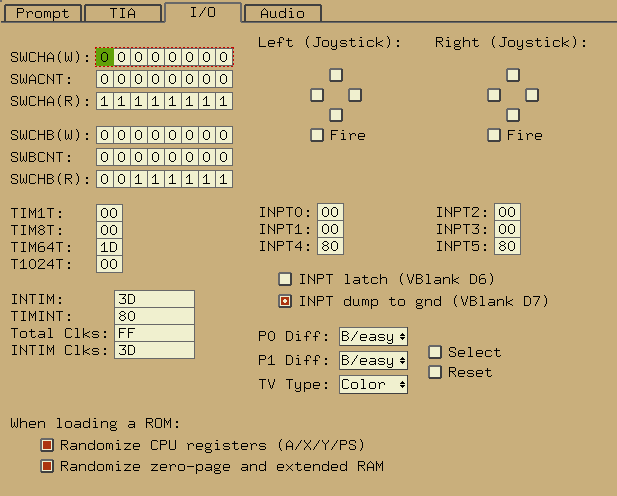
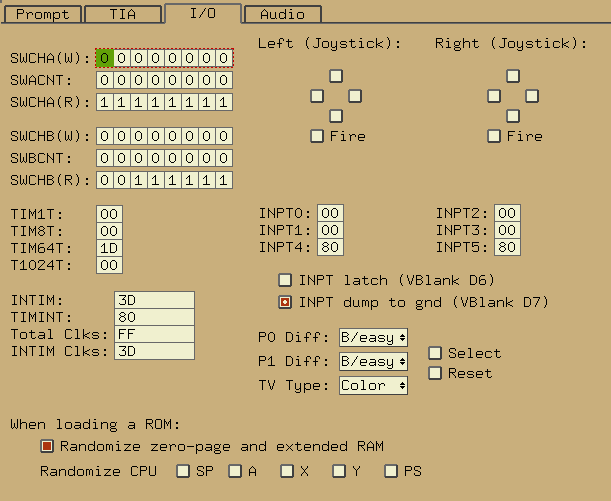
Updated webpage for 4.2 release.

diff --git a/docs/debugger.html b/docs/debugger.html
@@ -771,7 +771,7 @@ system would alternate between drawing frames (and hence produce
 flicker).</p>
 
 <p>You can use the "Scan+1" button, the prompt "scan" command, or the
-Alt-L key-combo to watch the TIA draw the frame one scanline at a time.</p>
+Control-L key to watch the TIA draw the frame one scanline at a time.</p>
 
 <p>You can also right-click anywhere in this window to show a context menu,
 as illustrated:</p>
@@ -1163,18 +1163,18 @@ the RAM in the DPC scheme is not viewable by the 6507, so its addresses start fr
 <h2>Global Buttons</h2>
 
 <p>There are also buttons on the right that always show up no matter which
-tab you're looking at. These are always active. They are: Step, Trace,
-Scan+1, Frame+1 and Exit.  The larger button to the left (labeled '&lt;')
-performs the rewind operation, which will undo the previous Step/Trace/Scan/Frame
-advance.  The rewind buffer is currently 100 levels deep.</p>
+tab you're looking at. These are always active.  The larger button to the left
+(labeled '&lt;') performs the rewind operation, which will undo the previous
+Step/Trace/Scan/Frame advance.  The rewind buffer is currently 100 levels deep.
+The others are Step, Trace, Scan+1, Frame+1 and Exit.</p>
 <p><img src="graphics/debugger_globalbuttons.png"></p>
 
 <p>When you use these buttons, the prompt doesn't change. This means the
 status lines with the registers and disassembly will be "stale". You
 can update them just by re-running the relevant commands in the prompt.</p>
 
-<p>You can also use the Step, Trace, Scan+1, Frame+1 and Rewind buttons from
-anywhere in the GUI via the keyboard, with Alt-S, Alt-T, Alt-L, Alt-F and Alt-R.</p>
+<p>You can also use the Step, Trace, Scan+1, Frame+1 and Rewind buttons from anywhere
+in the GUI via the keyboard, with Control-S, Control-T, Control-L, Control-F and Control-R.</p>
 
 
 <!-- /////////////////////////////////////////////////////////////////////////  -->

diff --git a/docs/index.html b/docs/index.html
@@ -10,7 +10,7 @@
   <br><br>
   <center><h2><b>A multi-platform Atari 2600 VCS emulator</b></h2></center>
 
-  <center><h4><b>Release 4.1.1</b></h4></center>
+  <center><h4><b>Release 4.2</b></h4></center>
   <br><br>
 
   <center><h2><b>User's Guide</b></h2></center>
@@ -54,7 +54,7 @@
 
   <br><br><br>
 
-  <center><b>February 1999 - September 2014</b></center>
+  <center><b>February 1999 - October 2014</b></center>
     <center><b>The Stella Team</b></center>
   <center><b><a href="http://stella.sourceforge.net">Stella Homepage</a></b></center>
 
@@ -2246,8 +2246,8 @@
     </tr>
 
     <tr>
-      <td><pre>-cpurandom &lt;1|0&gt;</pre></td>
-      <td>On reset, randomize the content CPU registers.</td>
+      <td><pre>-cpurandom &lt;S,A,X,Y,P&gt;</pre></td>
+      <td>On reset, randomize the content of the specified CPU registers.</td>
     </tr>
 
     <tr>
@@ -2767,10 +2767,9 @@
   <a href="http://2600-daptor.com">2600-adaptor</a> devices.</p>
 
   <p>Stella can use up to <b>two</b> adaptors; any extra ones are ignored.
-  Stelladaptor devices will be automatically detected and configured.  Stelladaptor
-  devices must be plugged in before starting the application; actual controllers
-  can be plugged/unplugged while the emulator is running, although you will need
-  to restart the game currently being emulated.</p>
+  Stelladaptor devices will be automatically detected and configured. The
+  actual controllers can be plugged/unplugged while the emulator is running,
+  although you will need to restart the game currently being emulated.</p>
 
   <p>The detection and configuration is as follows:
 

diff --git a/downloads.php b/downloads.php
@@ -15,52 +15,52 @@
 <table BORDER=0 CELLPADDING=6 WIDTH="100%">
 
 	<tr>
-		<td><b>Latest&nbsp;Release (v/ 4.1.1)</b></td>
+		<td><b>Latest&nbsp;Release (v/ 4.2)</b></td>
 		<td>&nbsp;</td>
 	</tr>
 
 	<tr>
-		<td BGCOLOR="#CCCCCC"><a href="http://prdownloads.sourceforge.net/stella/Stella-4.1.1-win32.exe?download">Stella-4.1.1-win32.exe</a></td>
+		<td BGCOLOR="#CCCCCC"><a href="http://prdownloads.sourceforge.net/stella/Stella-4.2-win32.exe?download">Stella-4.2-win32.exe</a></td>
 		<td BGCOLOR="#FFCC99">Binary installer (exe) for 32-bit Windows XP_SP3/Vista/7/8</td>
 	</tr>
 
 	<tr>
-		<td BGCOLOR="#CCCCCC"><a href="http://prdownloads.sourceforge.net/stella/Stella-4.1.1-x64.exe?download">Stella-4.1.1-x64.exe</a></td>
+		<td BGCOLOR="#CCCCCC"><a href="http://prdownloads.sourceforge.net/stella/Stella-4.2-x64.exe?download">Stella-4.2-x64.exe</a></td>
 		<td BGCOLOR="#FFCC99">Binary installer (exe) for 64-bit Windows XP_SP3/Vista/7/8</td>
 	</tr>
 
 	<tr>
-		<td BGCOLOR="#CCCCCC"><a href="http://prdownloads.sourceforge.net/stella/Stella-4.1.1-windows.zip?download">Stella-4.1.1-windows.zip</a></td>
+		<td BGCOLOR="#CCCCCC"><a href="http://prdownloads.sourceforge.net/stella/Stella-4.2-windows.zip?download">Stella-4.2-windows.zip</a></td>
 		<td BGCOLOR="#FFCC99">Binary ZIP (32-bit and 64-bit) for Windows XP_SP3   /Vista/7/8</td>
 	</tr>
 
 	<tr>
-		<td BGCOLOR="#CCCCCC"><a href="http://prdownloads.sourceforge.net/stella/Stella-4.1.1-macosx.dmg?download">Stella-4.1.1-macosx.dmg</a></td>
+		<td BGCOLOR="#CCCCCC"><a href="http://prdownloads.sourceforge.net/stella/Stella-4.2-macosx.dmg?download">Stella-4.2-macosx.dmg</a></td>
 		<td BGCOLOR="#FFCC99">Binary DMG for MacOS X (32/64-bit, Intel CPU/10.5+ only)</td>
 	</tr>
 
 	<tr>
-		<td BGCOLOR="#CCCCCC"><a href="http://prdownloads.sourceforge.net/stella/stella_4.1.1-1_i386.deb?download">stella_4.1.1-1_i386.deb</a></td>
-		<td BGCOLOR="#FFCC99">Binary 32-bit DEB for Ubuntu 14.04 (Trusty Tahr)</td>
+		<td BGCOLOR="#CCCCCC"><a href="http://prdownloads.sourceforge.net/stella/stella_4.2-1_i386.deb?download">stella_4.2-1_i386.deb</a></td>
+		<td BGCOLOR="#FFCC99">Binary 32-bit DEB for Ubuntu 14.10 (Utopic Unicorn)</td>
 	</tr>
 
 	<tr>
-		<td BGCOLOR="#CCCCCC"><a href="http://prdownloads.sourceforge.net/stella/stella_4.1.1-1_amd64.deb?download">stella_4.1.1-1_amd64.deb</a></td>
-		<td BGCOLOR="#FFCC99">Binary 64-bit DEB for Ubuntu 14.04 (Trusty Tahr)</td>
+		<td BGCOLOR="#CCCCCC"><a href="http://prdownloads.sourceforge.net/stella/stella_4.2-1_amd64.deb?download">stella_4.2-1_amd64.deb</a></td>
+		<td BGCOLOR="#FFCC99">Binary 64-bit DEB for Ubuntu 14.10 (Utopic Unicorn)</td>
 	</tr>
 
 	<tr>
-		<td BGCOLOR="#CCCCCC"><a href="http://prdownloads.sourceforge.net/stella/stella-4.1.1-2.i386.rpm?download">stella-4.1.1-2.i386.rpm</a></td>
+		<td BGCOLOR="#CCCCCC"><a href="http://prdownloads.sourceforge.net/stella/stella-4.2-2.i386.rpm?download">stella-4.2-2.i386.rpm</a></td>
 		<td BGCOLOR="#FFCC99">Binary 32-bit RPM for Linux (generated by 'alien')</td>
 	</tr>
 
 	<tr>
-		<td BGCOLOR="#CCCCCC"><a href="http://prdownloads.sourceforge.net/stella/stella-4.1.1-2.x86_64.rpm?download">stella-4.1.1-2.x86_64.rpm</a></td>
+		<td BGCOLOR="#CCCCCC"><a href="http://prdownloads.sourceforge.net/stella/stella-4.2-2.x86_64.rpm?download">stella-4.2-2.x86_64.rpm</a></td>
 		<td BGCOLOR="#FFCC99">Binary 64-bit RPM for Linux (generated by 'alien')</td>
 	</tr>
 
 	<tr>
-		<td BGCOLOR="#CCCCCC"><a href="http://prdownloads.sourceforge.net/stella/stella-4.1.1-src.tar.gz?download">stella-4.1.1-src.tar.gz</a></td>
+		<td BGCOLOR="#CCCCCC"><a href="http://prdownloads.sourceforge.net/stella/stella-4.2-src.tar.gz?download">stella-4.2-src.tar.gz</a></td>
 		<td BGCOLOR="#FFCC99">Source code tarball for all systems</td>
 	</tr>
 

diff --git a/stellanews.php b/stellanews.php
@@ -12,6 +12,41 @@
 			<div class="content">
 
 <!---------------------------------------------------------------->
+<H4>October 28, 2014</H4>
+Stella release 4.2 for Linux, MacOS X and Windows is now available.
+<ul>
+<li>Text input from non-US keyboard layouts is now supported.  Note that
+    all text in Stella is still ASCII-only, but at least it can now be
+    entered using a native layout.</li>
+
+<li>Related to the text input changes, the debugger Alt-combo shortcuts
+    have been changed; they now use the same key but with Control instead
+    of Alt (Control-F for frame advance, etc).</li>
+
+<li>Controllers are now detected dynamically by Stella.  This means that
+    you can plug/unplug joysticks/paddles/etc while Stella is running,
+    and they will be added and removed automatically.  Also fixed is
+    a bug whereby sometimes custom joystick mappings weren't being saved.</li>
+
+<li>The 'cpurandom' option is now broken down by register type, so you
+    can selectively enable/disable randomization for each one.  The
+    default is to disable randomization for all registers.</li>
+
+<li>Fixed 'MDM' scheme to trigger bankswitching on writes to hotspots
+    (previously it only triggered on reads).  Also, the scheme has been
+    modified as originally designed by E. Blink; hotspots are now in the
+    range $800-$BFF instead of $800-$FFF.</li>
+
+<li>The OSX app-icon now includes 32x32 and 16x16 versions, so 'small'
+    icons will be viewable in 'Finder', 'Get Info', etc.</li>
+
+<li>The Linux port now uses an app-icon; this seems to be needed for
+    some window managers.</li>
+</ul>
+
+-Have fun!
+
+
 <H4>September 14, 2014</H4>
 Stella release 4.1.1 for Linux, MacOS X and Windows is now available.
 <ul>
@@ -22,8 +57,6 @@ Stella release 4.1.1 for Linux, MacOS X and Windows is now available.
     an annoying system beep.  Currently this is fixed by patching the SDL2
     library and including a modified version with Stella.</li>
 </ul>
-
--Have fun!
 
 
 <H4>September 1, 2014</H4>

diff --git a/footer.php b/footer.php
@@ -2,4 +2,4 @@
 <a href="http://www.bradfordmott.com">Bradford W. Mott</a>, 
 <a href="http://minbar.org">Stephen Anthony</a> and 
 <a href="theteam.php">The Stella Team</a>
-<br/>	Site Updated September 14, 2014</p>
+<br/>	Site Updated October 28, 2014</p>
